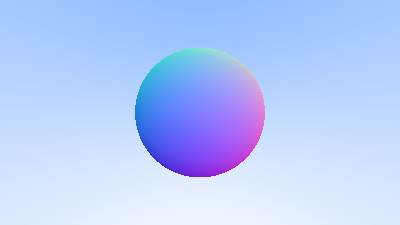
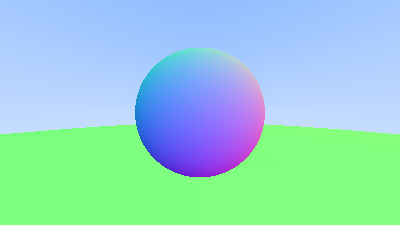
implemented hittable list & intervals

diff --git a/src/hittable.rs b/src/hittable.rs
@@ -1,21 +1,89 @@
+use std::vec::Vec;
+use std::rc::Rc;
+
 use crate::vec3::Vec3;
 use crate::ray::Ray;
+use crate::interval::Interval;
 
 #[derive(Clone, Copy, Debug)]
 pub struct HitRecord {
     pub p: Vec3,
     pub normal: Vec3,
-    pub t: f64
+    pub t: f64,
+    pub front_face: bool,
 }
 
 impl HitRecord {
-    pub fn new(p: Vec3, normal: Vec3, t: f64) -> Self {
-        HitRecord{p, normal, t}
+    pub fn new(p: Vec3, normal: Vec3, t: f64, front_face: bool) -> Self {
+        HitRecord{p, normal, t, front_face}
+    }
+
+    ///Set the hit record normal vector and direction it faces. 
+    /// 
+    ///The normal points in the opposite direction to the incident ray.
+    /// 
+    /// Pre-condition: outward_normal is unit length.
+    pub fn set_face_normal(self: &mut Self, r: &Ray, outward_normal: Vec3) {
+        self.front_face = Vec3::dot(r.direction(), &outward_normal) < 0.0;
+        self.normal = if self.front_face { outward_normal } else { -outward_normal };
     }
 }
 
 pub trait Hittable {
-    fn hit(self: &Self, r: &Ray, ray_tmin: f64, ray_tmax: f64) -> Option<HitRecord>;
+    fn hit(self: &Self, r: &Ray, ray_t: Interval) -> Option<HitRecord>;
+} 
+
+pub struct HittableList {
+    pub objects: Vec<Rc<dyn Hittable>>,
+}
+
+impl HittableList{
+        //Constructors
+        pub fn new_empty() -> Self {
+            HittableList{ objects: Vec::new(), }
+        }
+    
+        pub fn new_with_element(elem: Rc<dyn Hittable>) -> Self {
+            HittableList{ objects: vec![elem], }
+        }
+    
+        //methods
+        pub fn clear(self: &mut Self) {
+            self.objects.clear();
+        }
+    
+        pub fn add(self: &mut Self, elem: Rc<dyn Hittable>) {
+            //This method moves the Rc<dyn Hittable> value elem by
+            // taking ownership of it then transferring ownership
+            // to the self.objects vector 
+            self.objects.push(elem);
+        } 
+}
+
+impl Hittable for HittableList {
+    fn hit(self: &Self, r: &Ray, ray_t: Interval) -> Option<HitRecord> {
+        //Work through the list to see if any object is hit. 
+        //Return the one closest to the ray's origin. 
+        let mut closest_so_far = ray_t.max; 
+        let mut closest_hit: Option<HitRecord> = None;
+
+        //Must use &self.objects to borrow the Hittables as we don't want to move 
+        // them out of self.objects
+        for hittable in &self.objects {
+            //If the ray hits the current Hittable object AND does so
+            // closer to the ray origin, make this Hittable our closest_hit  
+            let did_ray_hit = hittable.hit(r, Interval::new(ray_t.min, closest_so_far));
+            if let Some(hit) = did_ray_hit {
+                //We have a closer hit, so record this
+                closest_so_far = hit.t;
+                closest_hit = did_ray_hit;
+            }
+        }  
+
+        //Finally, return a reference to the closest hittable object that the
+        // ray hit, or None if the ray missed them all
+        closest_hit
+    }
 } 
 
 #[derive(Clone, Copy, Debug)]
@@ -32,7 +100,7 @@ impl Sphere {
 }
 
 impl Hittable for Sphere {
-    fn hit(self: &Self, r: &Ray, ray_tmin: f64, ray_tmax: f64) -> Option<HitRecord> {
+    fn hit(self: &Self, r: &Ray, ray_t: Interval) -> Option<HitRecord> {
         let oc = self.center - *r.origin();
         let a = r.direction().length_squared();
         let h = Vec3::dot(r.direction(), &oc);
@@ -47,18 +115,18 @@ impl Hittable for Sphere {
 
         //Find the nearest root within the acceptable range 
         let mut root = (h - sqrtd) / a; 
-        if root <= ray_tmin || ray_tmax <= root {
+        if root <= ray_t.min || ray_t.max <= root {
             root = (h + sqrtd) / a; 
-            if root <= ray_tmin || ray_tmax <= root {
+            if root <= ray_t.min || ray_t.max <= root {
                 return None;
             }
         }
 
-        return Some(HitRecord {
-            p: (r.point_at(root)),
-            normal: ((r.point_at(root) - self.center) / self.radius),
-            t: (root)
-            });
+        let mut hit_record = HitRecord::new(r.point_at(root), Vec3::new_zeroes(), root, false);
+        let outward_normal = (r.point_at(root) - self.center) / self.radius;
+        hit_record.set_face_normal(r, outward_normal);
+
+        return Some(hit_record);
     }
     
 }

diff --git a/src/lib.rs b/src/lib.rs
@@ -1,24 +1,28 @@
 pub mod vec3; //includes the sub-module color 
 pub mod ray;
 pub mod hittable;
+pub mod interval;
+
+use core::f64;
+use std::rc::Rc;
 
 use image::{ImageBuffer, Rgb};
+
 use vec3::color::Color; 
 use vec3::Vec3;
 use ray::Ray;
-use hittable::{HitRecord, Hittable, Sphere};
+use hittable::{Hittable, Sphere, HittableList};
+use interval::Interval;
 
-fn ray_color(r: &Ray) -> Color {
-  let sphere = Sphere::new(Vec3::new(0.0, 0.0, -1.0), 0.5);
-  let hit_test = sphere.hit(r, 0.0, 10.0);
+fn ray_color(r: &Ray, world: &HittableList) -> Color {
+  let hit_test = world.hit(r, Interval::new(0.0, f64::INFINITY));
 
   match hit_test{
     Some(hit_record) => {
-      //Surface normal direction is from center of sphere to hit point
-      let surface_normal = Vec3::unit_vector(&(r.point_at(hit_record.t) - Vec3::new(0.0, 0.0, -1.0)));
-      //surface_normal has -1 <= x, y, z <= 1 so to get a colour just map
-      //  these values into [0 .. 1] by value -> (value + 1) / 2
-      0.5 * Color::new(surface_normal.x + 1.0, surface_normal.y + 1.0, surface_normal.z + 1.0)
+      //Part of the sphere, so compute colour based on the surface normal.
+      //The normal has -1 <= x, y, z <= 1 so to get a colour just map
+      //  these values into [0 .. 1] using the map value -> (value + 1) / 2
+      0.5 * Color::new(hit_record.normal.x + 1.0, hit_record.normal.y + 1.0, hit_record.normal.z + 1.0) //Refactor
     }
     None => {
       let unit_direction = Vec3::unit_vector(r.direction());
@@ -60,6 +64,11 @@ pub fn render(img_buf: &mut ImageBuffer<Rgb<u8>, Vec<u8>>) {
       - viewport_v / 2.0;
   let pixel00_loc   //Pixels are inset by half the pixel-to-pixel distance 
     = viewport_upper_left + 0.5 * (pixel_deta_u + pixel_deta_v);  
+
+  //World: we must place hittable objects into the scene  
+  let mut world = HittableList::new_empty();
+  world.add(Rc::new(Sphere::new(Vec3::new(0.0, 0.0, -1.0), 0.5)));
+  world.add(Rc::new(Sphere::new(Vec3::new(0.0, -100.5, -1.0), 100.0)));
   
   //  Update the Pixels in the ImageBuffer with the RGB values we want    
   for (x, y, pixel) in img_buf.enumerate_pixels_mut() {
@@ -72,7 +81,7 @@ pub fn render(img_buf: &mut ImageBuffer<Rgb<u8>, Vec<u8>>) {
       let r = Ray::new(camera_center, ray_direction);
 
       //All colour calculations are done using f64 values in [0.0 .. 1.0]
-      let pixel_color  = ray_color(&r);
+      let pixel_color  = ray_color(&r, &world);
 
       //Now we store the colour in the image buffer
       *pixel = Rgb(pixel_color.output_color());

diff --git a/src/interval.rs b/src/interval.rs
@@ -1,0 +1,45 @@
+#[derive(Clone, Copy, Debug)]
+pub struct Interval {
+    pub min: f64,
+    pub max: f64,
+}
+
+impl Interval {
+    //Constructors 
+    pub fn new(min: f64, max: f64) -> Self {
+        //Use the field init shorthand.
+        // If we omit values for the fields then Rust will look for 
+        // a function parameter with the same name
+        Interval{
+            min, 
+            max,
+        }
+    }
+
+    pub const fn new_empty() -> Self {
+        Interval {
+            min: f64::INFINITY,
+            max: f64::NEG_INFINITY,
+        }
+    }
+
+    //Methods 
+    pub fn size(self: &Self) -> f64 {
+        self.max - self.min 
+    }
+
+    pub fn contains(self: &Self, x: f64) -> bool {
+        self.min <= x && x <= self.max
+    }
+
+    pub fn surrounds(self: &Self, x: f64) -> bool {
+        self.min < x && x < self.max
+    }
+
+    //Associated constants
+    pub const EMPTY: Self = Self::new_empty(); 
+    pub const UNIVERSE: Self = Self{
+        min: f64::NEG_INFINITY,
+        max: f64::INFINITY,
+        };
+}
